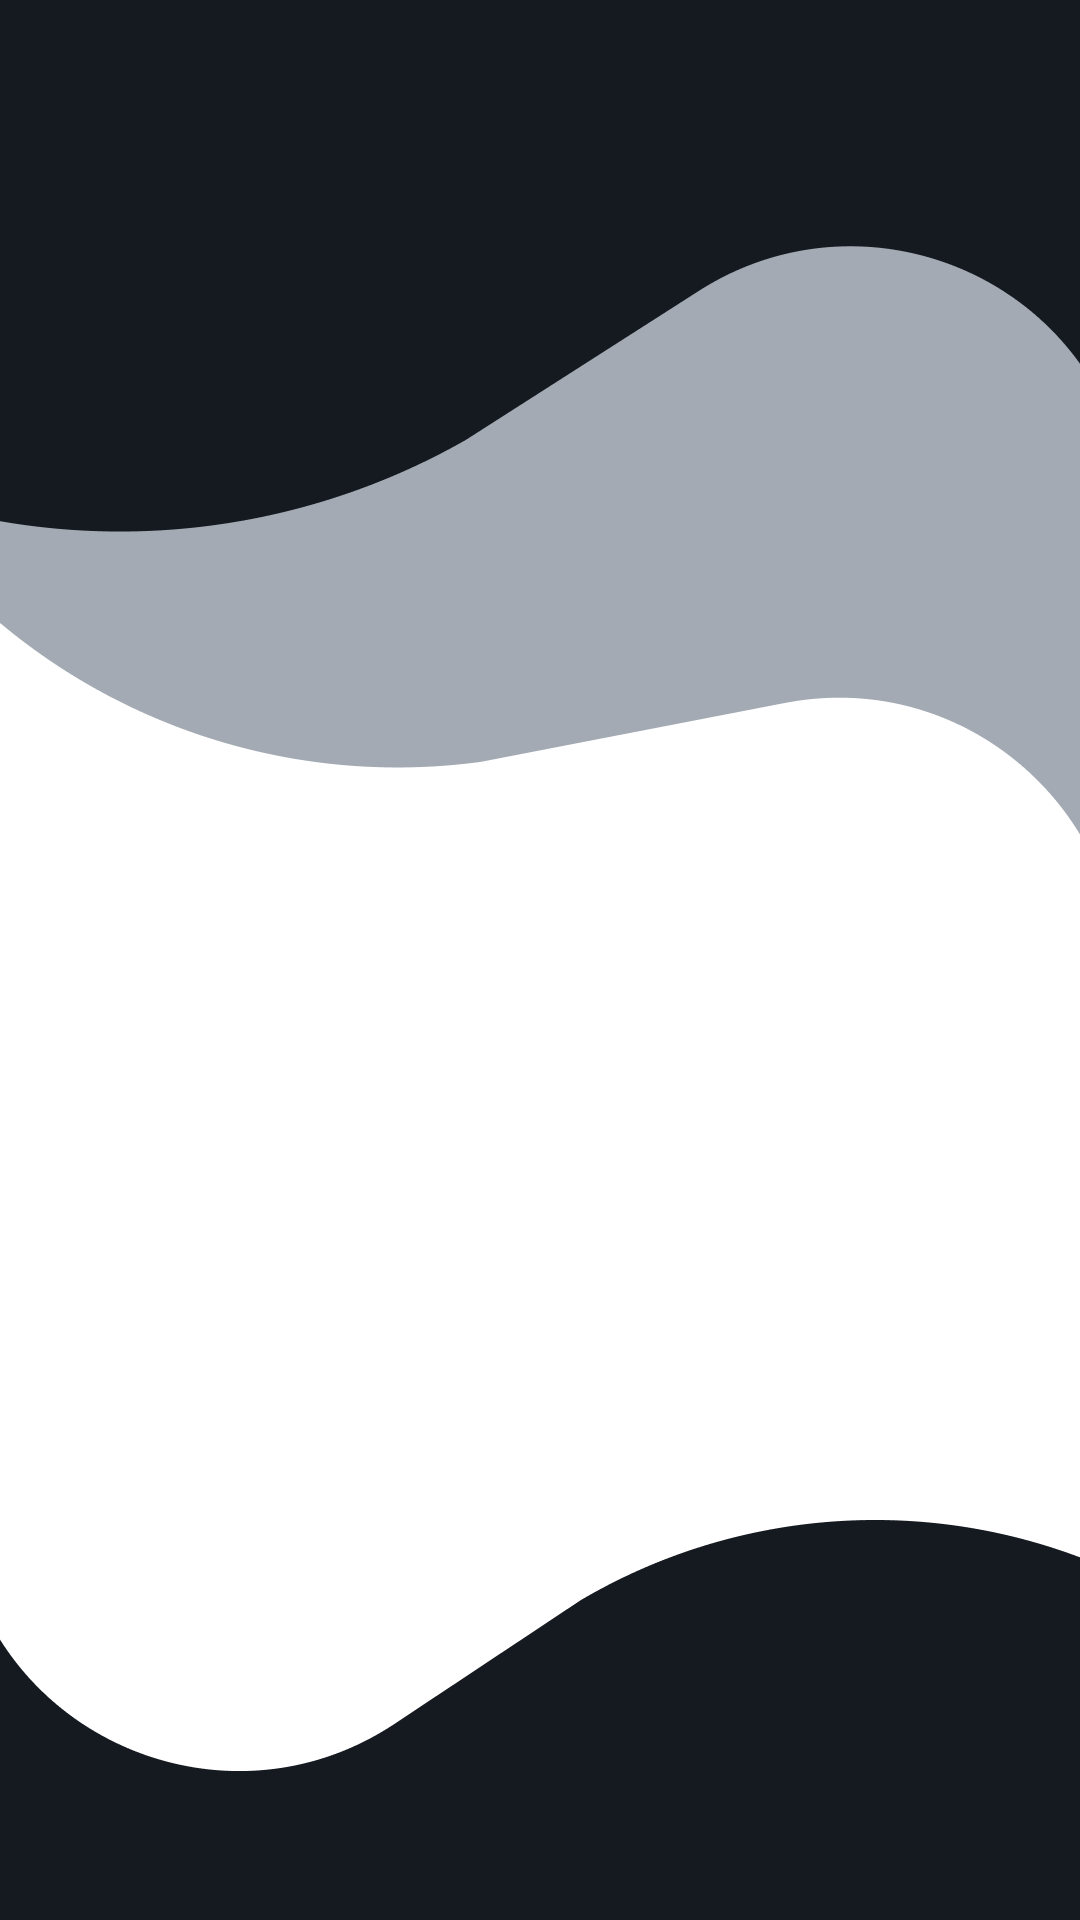
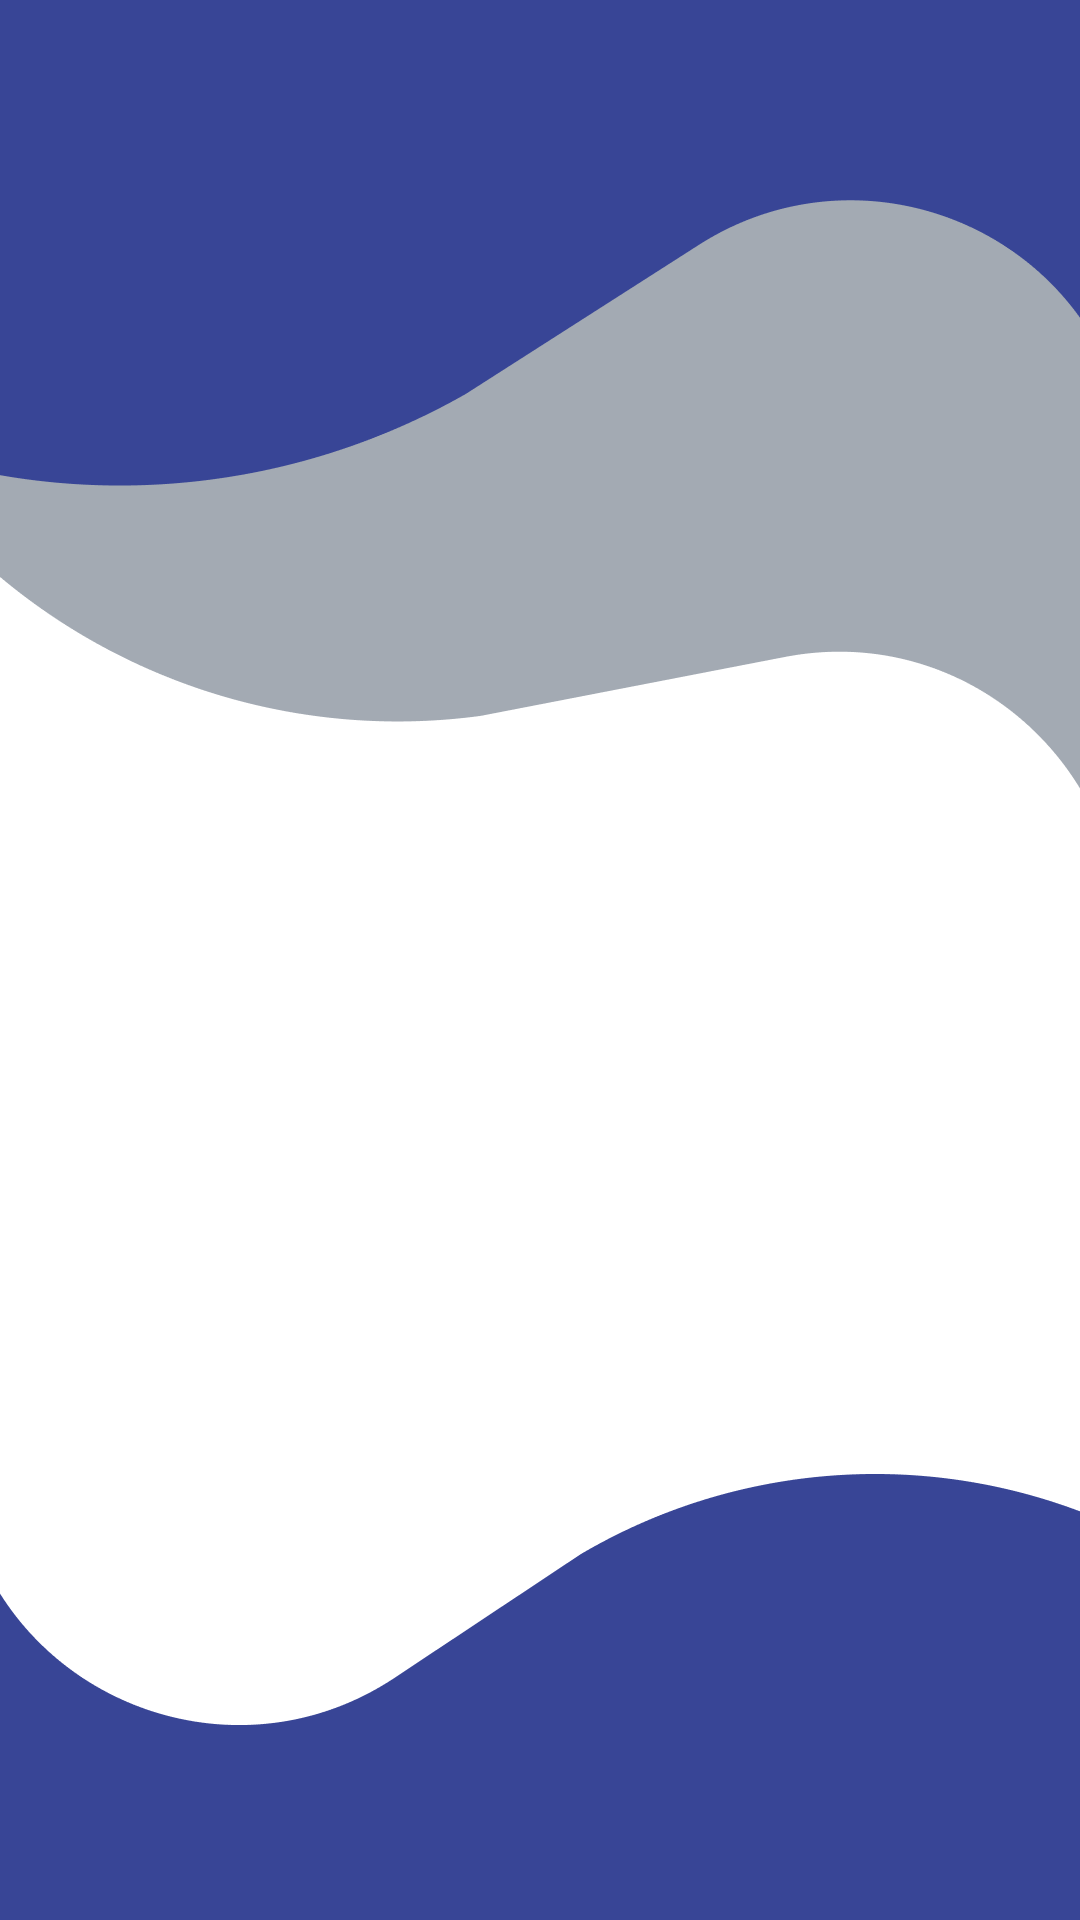
fix: add new styles.

diff --git a/acarreo_app/lib/global/modules/widgets_module/dots_progress_bar.dart b/acarreo_app/lib/global/modules/widgets_module/dots_progress_bar.dart
@@ -69,7 +69,7 @@ class ActiveIndicator extends StatelessWidget {
                   width: 1,
                   strokeAlign: BorderSide.strokeAlignCenter,
                   color: isActive
-                      ? Colors.black87 // const Color(0xFF007AFF)
+                      ? const Color(0xFF384596) // const Color(0xFF007AFF)
                       : const Color(0xFFB8B8C3),
                 ),
               ),
@@ -82,7 +82,7 @@ class ActiveIndicator extends StatelessWidget {
             width: 12,
             height: 12,
             decoration: ShapeDecoration(
-              color: isActive ? Colors.black87 : Colors.white,
+              color: isActive ? const Color(0xFF384596) : Colors.white,
               shape: isActive
                   ? const OvalBorder()
                   : const OvalBorder(
@@ -95,25 +95,6 @@ class ActiveIndicator extends StatelessWidget {
             ),
           ),
         ),
-        // Visibility(
-        //   visible: !isFirst && !isLast,
-        //   child: Container(
-        //     width: 40.0,
-        //     height: 1.0,
-        //     padding: const EdgeInsets.symmetric(horizontal: 208.0),
-        //     decoration: ShapeDecoration(
-        //       shape: RoundedRectangleBorder(
-        //         side: BorderSide(
-        //           width: 1,
-        //           strokeAlign: BorderSide.strokeAlignCenter,
-        //           color: isActive
-        //               ? const Color(0xFF007AFF)
-        //               : const Color(0xFFB8B8C3),
-        //         ),
-        //       ),
-        //     ),
-        //   ),
-        // ),
       ],
     );
   }

diff --git a/acarreo_app/lib/global/modules/widgets_module/extensions/scaffold_screen.dart b/acarreo_app/lib/global/modules/widgets_module/extensions/scaffold_screen.dart
@@ -54,7 +54,7 @@ extension ScaffoldScreen on Widget {
           appBar: AppBar(
             title: const SizedBox(
               width: 140,
-              child: LogoApp(assetName: WidgetAssets.logoNameApp),
+              child: LogoApp(assetName: WidgetAssets.logoNameLightApp),
             ),
             automaticallyImplyLeading: !disableToBack,
             iconTheme: const IconThemeData(color: Colors.white, size: 32),
@@ -179,7 +179,7 @@ extension ScaffoldScreen on Widget {
                 },
               ).withPaddingSymmetric(vertical: 0),
             ],
-            backgroundColor: const Color(0xFF151A20),
+            backgroundColor: const Color(0xFF384596),
             actionsIconTheme: const IconThemeData(size: 32),
           ),
           body: SafeArea(

diff --git a/acarreo_app/lib/acarreo_app.dart b/acarreo_app/lib/acarreo_app.dart
@@ -21,6 +21,9 @@ class AcarreoApp extends StatelessWidget {
         useMaterial3: true,
         brightness: Brightness.light,
         fontFamily: 'Poppins',
+        appBarTheme: const AppBarTheme(
+          color: Color(0xFF384596),
+        ),
       ),
     );
   }
